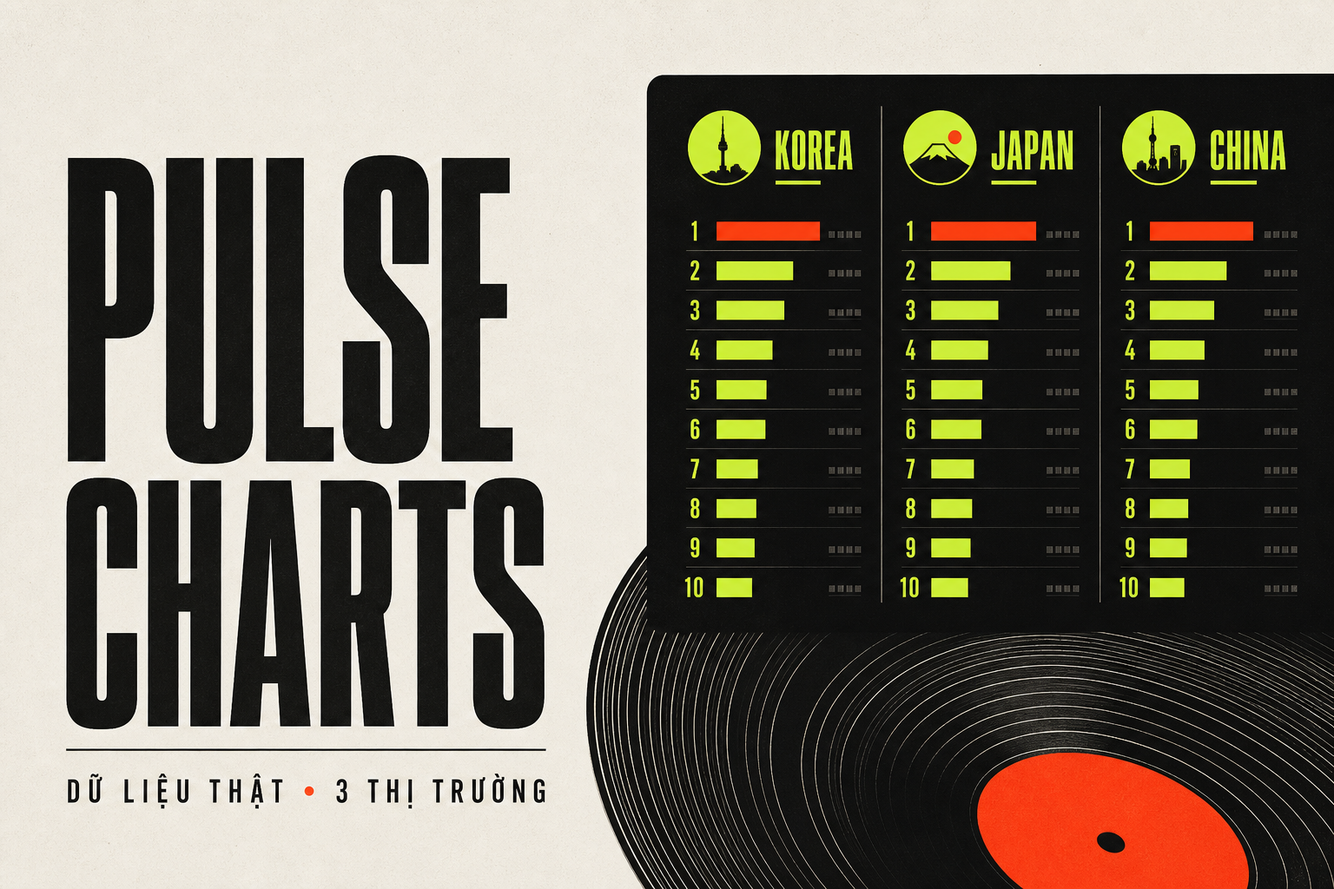
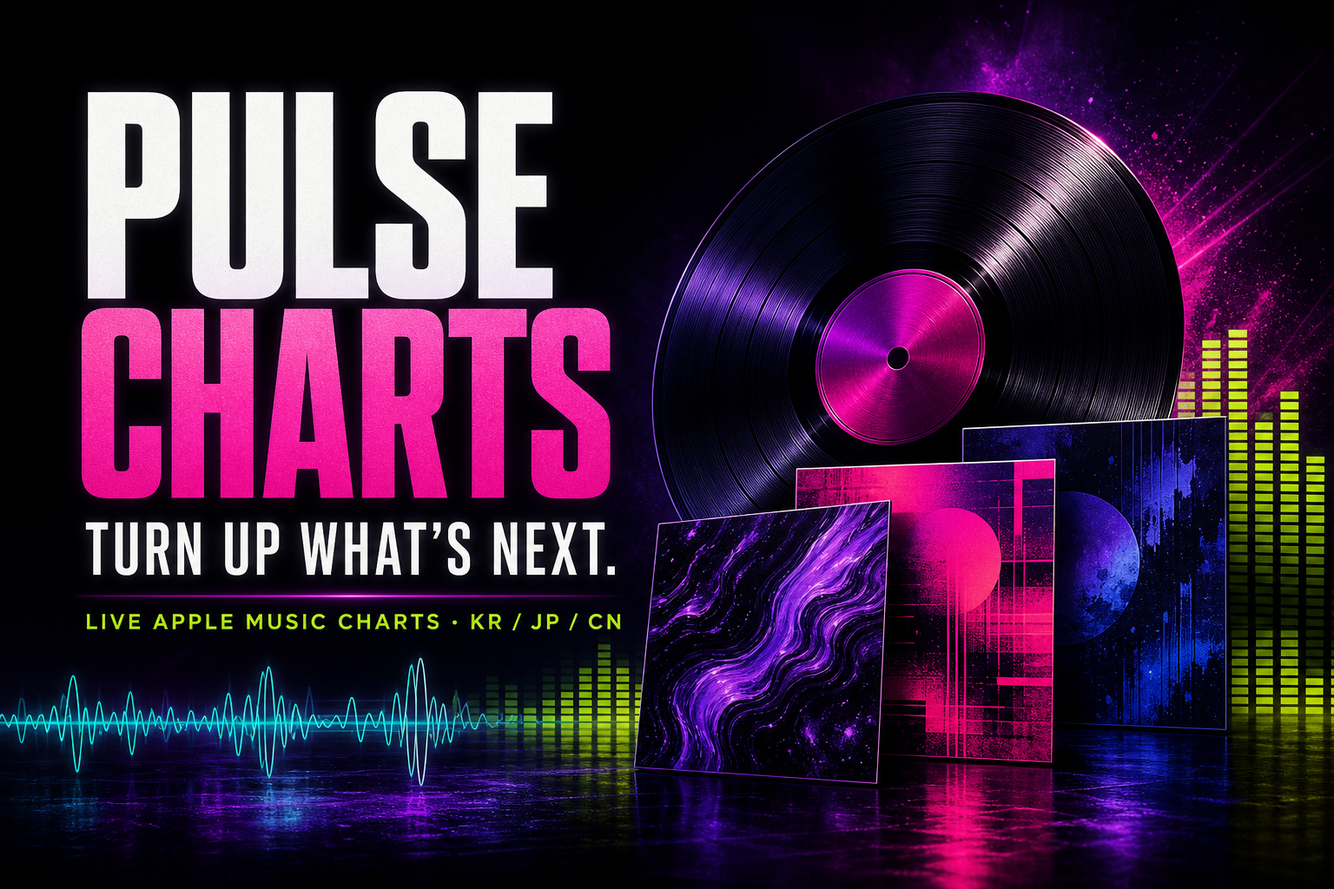
Redesign Pulse Charts with modern music interface

diff --git a/app/globals.css b/app/globals.css
@@ -1,8 +1,13 @@
 @import "tailwindcss";
-:root{--ink:#11110f;--paper:#f2f0e9;--acid:#c6ff33;--red:#ff4d2e;--line:#d2cfc5;--muted:#716f68}*{box-sizing:border-box}html{scroll-behavior:smooth}body{margin:0;background:var(--paper);color:var(--ink);font-family:Arial,Helvetica,sans-serif}button,input{font:inherit}button,a{-webkit-tap-highlight-color:transparent}button:focus-visible,a:focus-visible,input:focus-visible{outline:3px solid var(--red);outline-offset:2px}.topbar{min-height:76px;display:flex;align-items:center;justify-content:space-between;padding:0 4vw;border-bottom:1px solid var(--line)}.brand{color:var(--ink);display:flex;align-items:center;gap:12px;text-decoration:none;font-weight:900;font-size:18px;letter-spacing:-.7px}.brand>span:last-child span{color:var(--red)}.brand-mark{width:29px;height:29px;display:flex;align-items:flex-end;gap:3px;padding:5px;background:var(--ink);border-radius:50%}.brand-mark i{width:4px;display:block;background:var(--acid);border-radius:3px}.brand-mark i:nth-child(1){height:8px}.brand-mark i:nth-child(2){height:17px}.brand-mark i:nth-child(3){height:12px}.topbar-meta{font:700 10px/1 Arial,sans-serif;letter-spacing:1.2px}.live-dot{display:inline-block;width:7px;height:7px;background:#24b869;border-radius:50%;margin-right:7px;box-shadow:0 0 0 4px #24b86922}.hero{min-height:365px;padding:64px 4vw 56px;display:grid;grid-template-columns:1fr auto;align-items:end;border-bottom:1px solid var(--line);background:linear-gradient(120deg,transparent 65%,#e4e1d6)}.eyebrow,.section-label{margin:0 0 18px;font:800 10px/1 Arial,sans-serif;letter-spacing:2px;text-transform:uppercase}h1{max-width:900px;margin:0;font-size:clamp(42px,6vw,88px);line-height:.88;letter-spacing:-5px;font-weight:900}h1 em{font-family:Georgia,serif;font-weight:400;color:var(--red)}.hero-copy{max-width:610px;margin:30px 0 0;color:var(--muted);font-size:15px;line-height:1.6}.hero-stat{width:180px;padding:22px 0 4px;border-top:4px solid var(--ink)}.hero-stat strong{display:block;font-size:58px;letter-spacing:-5px;line-height:1}.hero-stat span{display:block;margin-top:10px;font-size:9px;line-height:1.5;letter-spacing:1.4px;font-weight:800}.controls{padding:20px 4vw;display:grid;grid-template-columns:minmax(280px,1fr) auto;gap:28px;border-bottom:1px solid var(--line)}.search-box{position:relative;display:flex;align-items:center;min-height:54px;border:1px solid var(--ink);background:#fff}.search-box>span{font-size:27px;margin:0 14px 4px 18px;transform:rotate(-20deg)}.search-box input{border:0;background:transparent;outline:0;width:100%;padding:0 12px 0 0;font-size:13px}.search-box button{width:46px;height:46px;border:0;background:transparent;cursor:pointer;font-size:24px}.filter-group{display:flex;border:1px solid var(--ink);background:#fff}.filter-group button{min-width:105px;border:0;border-right:1px solid var(--line);padding:7px 16px;background:transparent;cursor:pointer;font-size:11px;font-weight:700}.filter-group button:last-child{border-right:0}.filter-group button small{display:block;font-size:8px;letter-spacing:1px;color:var(--muted);margin-bottom:3px}.filter-group button.active{background:var(--ink);color:#fff}.filter-group button.active small{color:var(--acid)}
-.workspace{display:grid;grid-template-columns:230px minmax(500px,1fr) minmax(290px,380px);min-height:790px}.sidebar{padding:36px 24px 50px 4vw;border-right:1px solid var(--line)}.section-label{color:var(--muted);margin-bottom:14px}.chart-menu{display:grid;gap:8px}.chart-menu button{display:grid;grid-template-columns:48px 1fr;align-items:center;min-height:58px;border:1px solid transparent;text-align:left;background:transparent;padding:8px 10px;cursor:pointer}.chart-menu button span{color:var(--muted);font-size:8px;font-weight:900;letter-spacing:1px}.chart-menu button b{font-size:11px}.chart-menu button.active{border-color:var(--ink);background:var(--acid)}.chart-menu button.active span{color:var(--ink)}.source-note{margin-top:38px;padding-top:22px;border-top:1px solid var(--line);display:flex;gap:10px}.verified{flex:none;width:20px;height:20px;display:grid;place-items:center;border-radius:50%;background:#24b869;color:white;font-size:11px}.source-note p{margin:0;color:var(--muted);font-size:9px;line-height:1.5}.source-note b{display:block;color:var(--ink);font-size:10px;margin-bottom:4px}
-.chart-panel{border-right:1px solid var(--line)}.panel-heading{min-height:125px;display:flex;align-items:center;justify-content:space-between;padding:28px 32px;border-bottom:1px solid var(--line)}.panel-heading .eyebrow{color:var(--red);margin-bottom:9px}.panel-heading h2{margin:0;font-size:30px;letter-spacing:-1.5px}.updated{padding-left:22px;border-left:1px solid var(--line);font-size:8px;line-height:1.6;letter-spacing:1px;color:var(--muted)}.updated b{color:var(--ink);font-size:10px}.sync-warning{padding:10px 25px;background:#fff0c9;color:#6e5000;font-size:10px}.song-row{width:100%;min-height:75px;display:grid;grid-template-columns:43px 48px minmax(140px,1fr) 90px 76px 22px;gap:12px;align-items:center;border:0;border-bottom:1px solid var(--line);background:transparent;padding:0 22px;text-align:left;cursor:pointer;transition:background .16s,color .16s}.song-row:hover,.song-row.selected{background:var(--ink);color:#fff}.song-row.selected{box-shadow:inset 5px 0 var(--acid)}.rank{font:400 21px/1 Georgia,serif;color:var(--muted)}.song-row:hover .rank,.song-row.selected .rank{color:var(--acid)}.song-row>img{width:44px;height:44px;object-fit:cover;background:#ddd}.song-main{min-width:0}.song-main b,.song-main small{display:block;overflow:hidden;text-overflow:ellipsis;white-space:nowrap}.song-main b{font-size:13px}.song-main small{margin-top:5px;color:var(--muted);font-size:10px}.song-row:hover .song-main small,.song-row.selected .song-main small{color:#aaa}.genre{font-size:9px;color:var(--muted);overflow:hidden;text-overflow:ellipsis;white-space:nowrap}.released{font-size:9px;color:var(--muted)}.open-song{opacity:.35;font-size:16px}.song-row:hover .open-song,.song-row.selected .open-song{opacity:1;color:var(--acid)}.empty-state{padding:45px 30px;color:var(--muted);font:400 18px Georgia,serif;border-bottom:1px solid var(--line)}.empty-state.error{color:var(--red)}
-.detail-panel{position:relative;padding:38px 30px;background:#e8e5dc}.detail-empty{height:100%;display:flex;flex-direction:column;justify-content:center;align-items:center;text-align:center;max-width:250px;margin:auto}.disc{position:relative;width:70px;height:70px;border-radius:50%;display:grid;place-items:center;background:repeating-radial-gradient(circle,#111 0 4px,#2f2f2c 5px 6px);box-shadow:8px 8px 0 var(--acid);margin-bottom:32px}.disc i{width:20px;height:20px;background:var(--red);border:5px solid #fff;border-radius:50%}.detail-empty p{font-size:8px;letter-spacing:2px;font-weight:900}.detail-empty h3{font:400 24px/1.2 Georgia,serif;color:var(--muted)}.cover-wrap{position:relative;margin:-38px -30px 28px}.cover-wrap img{display:block;width:100%;aspect-ratio:1;object-fit:cover}.cover-wrap span{position:absolute;left:18px;bottom:18px;background:var(--acid);padding:8px 10px;font:700 16px Georgia,serif}.detail-panel>.eyebrow{color:var(--red);margin-bottom:10px}.detail-panel>h3{font-size:32px;line-height:1;letter-spacing:-1.5px;margin:0}.artist-link{display:inline-block;color:var(--muted);margin:10px 0 22px;font-size:13px;text-decoration:none}.artist-link:hover{color:var(--red)}dl{margin:0;border-top:1px solid var(--line)}dl div{display:flex;justify-content:space-between;gap:20px;padding:12px 0;border-bottom:1px solid var(--line)}dt{font-size:8px;font-weight:900;letter-spacing:1px}dd{margin:0;text-align:right;font-size:9px;color:var(--muted)}.apple-link,.youtube-link{margin-top:22px;min-height:48px;display:flex;justify-content:space-between;align-items:center;padding:0 15px;background:var(--red);color:#fff;text-decoration:none;font-size:9px;font-weight:900;letter-spacing:1px}.youtube-link.secondary{margin-top:8px;background:transparent;border:1px solid var(--ink);color:var(--ink)}footer{min-height:90px;display:flex;justify-content:space-between;align-items:center;padding:0 4vw;background:var(--ink);color:#fff;font-size:9px;letter-spacing:1px}footer span{color:var(--acid);font-weight:900}footer p{color:#999}footer a{color:#ddd;text-decoration:none}
-@media(max-width:1120px){.workspace{grid-template-columns:210px 1fr}.detail-panel{grid-column:1/-1;min-height:390px;border-top:1px solid var(--line)}.detail-panel.has-song{display:grid;grid-template-columns:280px 1fr;gap:0 28px}.detail-panel.has-song .cover-wrap{grid-row:1/8;margin:-38px 0 -38px -30px}.detail-panel.has-song .cover-wrap img{height:100%;aspect-ratio:auto}.detail-panel.has-song .apple-link,.detail-panel.has-song .youtube-link{grid-column:2}.detail-panel.has-song dl{grid-column:2}}
-@media(max-width:780px){.topbar{padding:0 20px}.topbar-meta{display:none}.hero{min-height:auto;display:block;padding:52px 20px 42px}.hero-stat{display:none}h1{font-size:48px;letter-spacing:-3px}.controls{display:block;padding:16px 20px}.filter-group{overflow-x:auto;margin-top:12px}.filter-group button{min-width:95px}.workspace{display:block}.sidebar{padding:28px 20px;border-right:0;border-bottom:1px solid var(--line)}.chart-menu{display:flex;overflow-x:auto}.chart-menu button{min-width:180px}.source-note{display:none}.panel-heading{padding:25px 20px}.updated{display:none}.song-row{grid-template-columns:35px 42px 1fr 22px;padding:0 14px;gap:9px}.song-row>img{width:38px;height:38px}.genre,.released{display:none}.detail-panel.has-song{display:block}.detail-panel.has-song .cover-wrap{margin:-38px -30px 28px}.detail-panel.has-song .cover-wrap img{height:auto;aspect-ratio:1}.detail-panel.has-song .apple-link,.detail-panel.has-song .youtube-link,.detail-panel.has-song dl{grid-column:auto}footer{padding:24px 20px;align-items:flex-start;gap:10px;flex-direction:column}}
-@media(prefers-reduced-motion:reduce){*{scroll-behavior:auto!important;transition:none!important}}
+@import url("https://fonts.googleapis.com/css2?family=DM+Sans:wght@400;500;600;700&family=Space+Grotesk:wght@400;500;600;700&display=swap");
+:root{--bg:#08080b;--panel:#111116;--panel2:#17171e;--text:#f5f3ff;--muted:#9895a8;--line:#292733;--purple:#8b5cf6;--pink:#ff4db8;--lime:#c8ff3d;--cyan:#50e3ff}*{box-sizing:border-box}html{scroll-behavior:smooth}body{margin:0;background:var(--bg);color:var(--text);font-family:"DM Sans",Arial,sans-serif}body:before{content:"";position:fixed;inset:0;pointer-events:none;opacity:.14;background-image:linear-gradient(#ffffff08 1px,transparent 1px),linear-gradient(90deg,#ffffff08 1px,transparent 1px);background-size:56px 56px}button,input{font:inherit}button,a{-webkit-tap-highlight-color:transparent}button:focus-visible,a:focus-visible,input:focus-visible{outline:2px solid var(--lime);outline-offset:3px}a{color:inherit}.topbar{position:relative;z-index:10;height:78px;display:grid;grid-template-columns:1fr auto 1fr;align-items:center;padding:0 clamp(22px,4vw,72px);border-bottom:1px solid var(--line);background:#08080bd9;backdrop-filter:blur(18px)}.brand{display:flex;align-items:center;gap:11px;text-decoration:none;font:600 17px/1 "Space Grotesk",sans-serif;letter-spacing:-.7px}.brand b{color:var(--lime)}.brand-mark{width:34px;height:34px;display:flex;align-items:center;justify-content:center;gap:2px;border:1px solid #ffffff2b;border-radius:50%;background:linear-gradient(135deg,var(--purple),var(--pink));box-shadow:0 0 24px #8b5cf650}.brand-mark i{width:2px;border-radius:3px;background:white;animation:equalize .9s ease-in-out infinite alternate}.brand-mark i:nth-child(1){height:8px}.brand-mark i:nth-child(2){height:17px;animation-delay:-.2s}.brand-mark i:nth-child(3){height:12px;animation-delay:-.4s}.brand-mark i:nth-child(4){height:6px;animation-delay:-.6s}@keyframes equalize{to{transform:scaleY(.45)}}nav{display:flex;gap:36px}nav a{text-decoration:none;color:var(--muted);font-size:11px;font-weight:700;letter-spacing:1.5px;text-transform:uppercase}nav a:hover{color:var(--text)}.live-pill{justify-self:end;font-size:9px;font-weight:700;letter-spacing:1.2px;color:#cac7d7}.live-pill span,.status-dot{display:inline-block;width:7px;height:7px;margin-right:7px;border-radius:50%;background:var(--lime);box-shadow:0 0 12px var(--lime)}
+.hero{position:relative;min-height:620px;padding:86px clamp(22px,6vw,110px) 72px;display:grid;grid-template-columns:minmax(400px,.9fr) minmax(420px,1.1fr);align-items:center;overflow:hidden;border-bottom:1px solid var(--line);background:radial-gradient(circle at 80% 40%,#7226e433,transparent 35%),radial-gradient(circle at 45% 110%,#ff4db815,transparent 38%)}.hero:after{content:"";position:absolute;right:-8%;top:12%;width:42vw;height:42vw;border:1px solid #ffffff12;border-radius:50%;box-shadow:0 0 0 5vw #ffffff04,0 0 0 10vw #ffffff03}.kicker{margin:0 0 22px;color:#c4c0d2;font:700 10px/1 "Space Grotesk",sans-serif;letter-spacing:2.3px}.kicker span{display:inline-grid;place-items:center;width:28px;height:28px;margin-right:10px;border:1px solid #575269;border-radius:50%;color:var(--lime)}h1{position:relative;z-index:2;margin:0;font:600 clamp(64px,7.3vw,118px)/.82 "Space Grotesk",sans-serif;letter-spacing:-7px}h1 em{font-style:normal;color:transparent;-webkit-text-stroke:1.5px #ffffff;background:linear-gradient(90deg,var(--pink),var(--purple),var(--cyan));background-clip:text;-webkit-background-clip:text;-webkit-text-stroke:0}.hero-copy>p:not(.kicker){max-width:520px;margin:34px 0 0;color:var(--muted);font-size:15px;line-height:1.7}.hero-cta{width:max-content;margin-top:36px;display:flex;align-items:center;gap:13px;text-decoration:none;font:700 10px/1 "Space Grotesk",sans-serif;letter-spacing:1.5px}.hero-cta span{width:45px;height:45px;display:grid;place-items:center;padding-left:3px;border-radius:50%;background:var(--lime);color:#09090b;box-shadow:0 0 28px #c8ff3d30;transition:transform .2s}.hero-cta:hover span{transform:scale(1.08)}.hero-art{position:relative;z-index:2;height:440px}.orb{position:absolute;width:340px;height:340px;right:7%;top:8%;border-radius:50%;background:radial-gradient(circle at 32% 28%,#d0b7ff,#7741d6 28%,#201343 68%,#0b0911);box-shadow:0 40px 120px #7c3aed66}.vinyl{position:absolute;right:0;top:34px;width:350px;height:350px;border-radius:50%;display:grid;place-items:center;background:repeating-radial-gradient(circle,#07070a 0 4px,#202027 5px 6px);box-shadow:0 30px 80px #000}.vinyl:after{content:"";position:absolute;inset:18px;border:1px solid #ffffff14;border-radius:50%}.vinyl i{width:108px;height:108px;border-radius:50%;background:linear-gradient(135deg,var(--pink),var(--purple));border:5px solid #08080b}.vinyl b{position:absolute;text-align:center;font:600 11px/1.1 "Space Grotesk";letter-spacing:1px}.cover-stack{position:absolute;left:6%;top:40px;width:300px;height:350px}.cover-stack img,.cover-placeholder{--i:0;position:absolute;width:220px;height:220px;object-fit:cover;left:calc(var(--i) * 38px);top:calc(var(--i) * 48px);border:8px solid #111116;box-shadow:0 24px 70px #000b;transform:rotate(calc((var(--i) - 1) * 5deg));transition:transform .3s}.cover-stack img:hover{transform:translateY(-10px) rotate(0);z-index:4}.cover-placeholder{display:grid;place-items:center;text-align:center;background:linear-gradient(135deg,var(--purple),var(--pink));font:700 28px/1 "Space Grotesk"}.waveform{position:absolute;display:flex;align-items:center;gap:5px;right:4%;bottom:8px;height:54px}.waveform i{display:block;width:3px;border-radius:3px;background:linear-gradient(var(--cyan),var(--purple));height:calc(10px + (var(--n,1) * 2px));animation:wave .8s ease-in-out infinite alternate}.waveform i:nth-child(3n){height:42px}.waveform i:nth-child(2n){height:24px;animation-delay:-.4s}.waveform i:nth-child(5n){height:52px;animation-delay:-.6s}@keyframes wave{to{transform:scaleY(.45)}}.hero-index{position:absolute;right:4vw;bottom:24px;font:600 9px/1 "Space Grotesk";letter-spacing:2px;color:#716d7e}
+.chart-bar{position:relative;z-index:3;display:grid;grid-template-columns:1fr minmax(300px,480px);align-items:stretch;border-bottom:1px solid var(--line);background:#0c0c10}.market-filters{display:flex;overflow-x:auto}.market-filters button{min-width:140px;min-height:76px;padding:0 24px;border:0;border-right:1px solid var(--line);background:transparent;color:var(--muted);text-align:left;cursor:pointer;font-size:12px;font-weight:600}.market-filters button small{display:block;margin-bottom:6px;color:#5f5b6b;font:700 8px/1 "Space Grotesk";letter-spacing:1.5px}.market-filters button:hover{color:white;background:#ffffff05}.market-filters button.active{color:#09090b;background:var(--lime)}.market-filters button.active small{color:#485d00}.search-box{margin:13px clamp(20px,4vw,70px) 13px 20px;min-height:50px;display:flex;align-items:center;border:1px solid #34313e;border-radius:999px;background:#15151b}.search-box>span{margin:0 14px 3px 20px;font-size:25px;transform:rotate(-15deg);color:var(--purple)}.search-box input{min-width:0;width:100%;border:0;outline:0;background:transparent;color:white;font-size:12px}.search-box input::placeholder{color:#696574}.search-box button{width:45px;border:0;background:transparent;color:white;font-size:21px;cursor:pointer}
+.chart-tabs{padding:28px clamp(22px,4vw,72px) 0}.chart-tabs>p{margin:0 0 13px;color:#686473;font:700 8px/1 "Space Grotesk";letter-spacing:2px}.chart-tabs>div{display:flex;gap:8px;overflow-x:auto}.chart-tabs button{min-width:200px;padding:14px 18px;border:1px solid var(--line);border-radius:12px;background:var(--panel);color:#aaa6b6;text-align:left;font-size:11px;font-weight:600;cursor:pointer;transition:.2s}.chart-tabs button span{display:block;margin-bottom:5px;color:#635e70;font-size:8px;letter-spacing:1.5px}.chart-tabs button:hover{border-color:#615a70;color:white}.chart-tabs button.active{color:white;border-color:var(--purple);background:linear-gradient(110deg,#8b5cf623,#ff4db80c);box-shadow:inset 0 0 0 1px #8b5cf620}.chart-tabs button.active span{color:var(--lime)}
+.workspace{display:grid;grid-template-columns:minmax(560px,1fr) minmax(320px,430px);gap:0;margin:24px clamp(22px,4vw,72px) 70px;border:1px solid var(--line);border-radius:20px;overflow:visible;background:var(--panel);box-shadow:0 30px 100px #0006}.chart-panel{min-width:0;border-right:1px solid var(--line)}.panel-heading{min-height:120px;display:flex;align-items:center;justify-content:space-between;padding:28px 32px;border-bottom:1px solid var(--line)}.panel-heading .kicker{margin-bottom:9px}.panel-heading h2{margin:0;font:600 clamp(25px,3vw,38px)/1 "Space Grotesk";letter-spacing:-1.8px}.sync-time{padding-left:25px;border-left:1px solid var(--line);color:#666270;font-size:8px;line-height:1.6;letter-spacing:1px}.sync-time b{color:#aaa5b5;font-size:9px}.column-head,.song-row{display:grid;grid-template-columns:55px minmax(220px,1fr) 100px 90px 30px;gap:12px;align-items:center}.column-head{min-height:42px;padding:0 25px;border-bottom:1px solid var(--line);color:#5f5b69;font-size:8px;font-weight:700;letter-spacing:1.5px}.song-row{width:100%;min-height:82px;padding:0 25px;border:0;border-bottom:1px solid var(--line);background:transparent;color:white;text-align:left;cursor:pointer;transition:background .18s}.song-row:hover{background:#ffffff05}.song-row.selected{background:linear-gradient(90deg,#8b5cf61f,transparent)}.song-row.selected:before{content:"";position:absolute;left:0;width:3px;height:48px;background:var(--lime);box-shadow:0 0 14px var(--lime)}.song-row{position:relative}.rank{font:500 20px/1 "Space Grotesk";color:#5d5967}.selected .rank{color:var(--lime)}.track{min-width:0;display:flex;align-items:center;gap:14px}.art{position:relative;flex:none;width:48px;height:48px}.art img{width:100%;height:100%;object-fit:cover;border-radius:8px}.art i{position:absolute;inset:0;display:grid;place-items:center;border-radius:8px;background:#09090ba8;font-style:normal;font-size:11px;opacity:0}.song-row:hover .art i,.song-row.selected .art i{opacity:1}.song-main{min-width:0}.song-main b,.song-main small{display:block;overflow:hidden;text-overflow:ellipsis;white-space:nowrap}.song-main b{font-size:13px}.song-main small{margin-top:5px;color:#777382;font-size:10px}.genre,.released{overflow:hidden;text-overflow:ellipsis;white-space:nowrap;color:#716d7b;font-size:9px}.row-action{color:#5f5b68;letter-spacing:2px}.empty-state,.sync-warning{padding:38px 30px;color:var(--muted);font:500 15px "Space Grotesk";border-bottom:1px solid var(--line)}.empty-state.error{color:#ff7fbb}.sync-warning{background:#f3ba3820;color:#e5bc62;font-size:11px}
+.player-panel{position:relative;min-height:710px;padding:25px 28px 30px;overflow:hidden;background:linear-gradient(180deg,#1b1725,#111116 46%)}.player-glow{position:absolute;inset:-80px -80px auto;height:400px;background-size:cover;background-position:center;filter:blur(70px) saturate(1.4);opacity:.26}.player-head{position:relative;display:flex;justify-content:space-between;color:#a7a2b2;font:700 8px/1 "Space Grotesk";letter-spacing:1.8px}.player-head span:last-child{color:var(--lime)}.player-cover{position:relative;width:min(100%,340px);margin:30px auto 26px}.player-cover>img{display:block;width:100%;aspect-ratio:1;object-fit:cover;border-radius:16px;box-shadow:0 28px 70px #000b}.playing-badge{position:absolute;right:14px;bottom:14px;width:42px;height:42px;display:flex;align-items:center;justify-content:center;gap:2px;border-radius:50%;background:var(--lime);box-shadow:0 0 24px #c8ff3d55}.playing-badge i{width:2px;background:#09090b;border-radius:2px;animation:equalize .7s ease infinite alternate}.playing-badge i:nth-child(1){height:8px}.playing-badge i:nth-child(2){height:18px;animation-delay:-.2s}.playing-badge i:nth-child(3){height:13px;animation-delay:-.4s}.playing-badge i:nth-child(4){height:6px;animation-delay:-.6s}.player-info{text-align:center}.player-info p{margin:0 0 9px;color:var(--pink);font:700 8px/1 "Space Grotesk";letter-spacing:1.5px;text-transform:uppercase}.player-info h3{margin:0;font:600 clamp(25px,2.8vw,36px)/1 "Space Grotesk";letter-spacing:-1.6px}.player-info>a{display:inline-block;margin-top:9px;color:#8e8999;text-decoration:none;font-size:12px}.player-info>a:hover{color:var(--lime)}.progress{position:relative;margin:24px 0 14px;padding-top:13px;display:flex;justify-content:space-between;color:#5e5a68;font-size:7px;letter-spacing:1px}.progress:before{content:"";position:absolute;left:0;right:0;top:0;height:2px;background:#373340}.progress span{position:absolute;left:0;top:0;width:42%;height:2px;background:linear-gradient(90deg,var(--purple),var(--pink))}.progress span:after{content:"";position:absolute;right:-3px;top:-2px;width:6px;height:6px;border-radius:50%;background:white}.progress i{font-style:normal}.progress b{font-weight:600}.player-actions{display:grid;grid-template-columns:1fr auto;gap:8px}.player-actions a{min-height:47px;padding:0 17px;display:flex;align-items:center;justify-content:center;border:1px solid #35313f;border-radius:999px;text-decoration:none;color:#a9a4b4;font-size:8px;font-weight:700;letter-spacing:1px}.player-actions .primary{gap:10px;border:0;background:linear-gradient(100deg,var(--purple),var(--pink));color:white}.player-actions .primary:hover{filter:brightness(1.12)}.player-panel dl{margin:20px 0 0;border-top:1px solid var(--line)}.player-panel dl div{display:flex;justify-content:space-between;padding:10px 0;border-bottom:1px solid var(--line)}dt{color:#5c5865;font-size:7px;font-weight:700;letter-spacing:1.2px}dd{margin:0;color:#8d8996;font-size:8px}.player-empty{height:100%;display:grid;place-items:center}.player-empty p{color:#66616f;font-size:9px;letter-spacing:2px}.vinyl.mini{position:relative;right:auto;top:auto;width:150px;height:150px}.vinyl.mini i{width:44px;height:44px}
+footer{min-height:190px;padding:45px clamp(22px,4vw,72px);display:grid;grid-template-columns:1fr 1fr 1fr;align-items:center;border-top:1px solid var(--line);background:#060608}.footer-brand{font-size:20px}.footer-brand .brand-mark{width:39px;height:39px}footer>p{margin:0;color:#7c7886;font:500 14px/1.6 "Space Grotesk"}footer>div:last-child{justify-self:end;display:flex;flex-direction:column;gap:9px;text-align:right;color:#5d5965;font-size:8px;letter-spacing:1.2px}footer>div:last-child a{text-decoration:none;color:#96919f}
+@media(max-width:1080px){.hero{grid-template-columns:1fr 1fr;padding-left:45px;padding-right:45px}.cover-stack{left:-5%}.workspace{grid-template-columns:minmax(500px,1fr) 350px;margin-left:24px;margin-right:24px}.chart-bar{grid-template-columns:1fr}.search-box{margin:12px 24px}.genre{display:none}.column-head,.song-row{grid-template-columns:50px minmax(220px,1fr) 88px 28px}.column-head span:nth-child(3){display:none}}
+@media(max-width:820px){.topbar{grid-template-columns:1fr auto;padding:0 20px}nav{display:none}.live-pill{font-size:8px}.hero{min-height:auto;display:block;padding:64px 22px 48px}.hero-copy{position:relative;z-index:3}.hero-copy>p:not(.kicker){max-width:430px}.hero-art{height:330px;margin-top:35px}.orb{width:260px;height:260px}.vinyl{width:270px;height:270px}.vinyl i{width:80px;height:80px}.cover-stack{left:0;width:250px;height:290px}.cover-stack img,.cover-placeholder{width:165px;height:165px}.hero-index{display:none}.workspace{display:block;margin:18px 14px 50px}.chart-panel{border-right:0}.player-panel{min-height:auto;border-top:1px solid var(--line)}.player-cover{max-width:360px}.chart-tabs{padding-left:18px;padding-right:18px}footer{grid-template-columns:1fr 1fr;gap:30px}footer>p{display:none}}
+@media(max-width:560px){h1{font-size:58px;letter-spacing:-4px}.topbar{height:68px}.live-pill{width:9px;overflow:hidden;color:transparent}.live-pill span{margin:0}.hero{padding-top:52px}.hero-art{height:280px}.vinyl{width:230px;height:230px;right:-30px}.orb{width:220px;height:220px;right:-10px}.cover-stack img,.cover-placeholder{width:142px;height:142px;border-width:5px}.cover-stack img{left:calc(var(--i) * 28px);top:calc(var(--i) * 38px)}.waveform{display:none}.market-filters button{min-width:115px;padding:0 17px}.chart-tabs button{min-width:175px}.panel-heading{padding:24px 18px}.sync-time{display:none}.column-head{display:none}.song-row{grid-template-columns:35px minmax(190px,1fr) 25px;min-height:74px;padding:0 14px;gap:8px}.track{gap:10px}.art{width:43px;height:43px}.genre,.released{display:none}.player-panel{padding:24px 18px}.player-cover{margin-top:24px}.player-actions{grid-template-columns:1fr}.player-actions a{min-height:43px}.chart-bar{display:block}.search-box{margin:12px 14px}.market-filters{border-bottom:1px solid var(--line)}footer{display:block;padding:38px 22px}footer>div:last-child{margin-top:25px;text-align:left;align-items:flex-start}}
+@media(prefers-reduced-motion:reduce){*{scroll-behavior:auto!important;animation:none!important;transition:none!important}}

diff --git a/app/page.tsx b/app/page.tsx
@@ -8,7 +8,7 @@ type Chart={ id:string; label:string; shortLabel:string; market:Market; source:s
 type ChartData={ generatedAt:string; charts:Chart[] };
 
 const marketLabels:{ id:Market|"ALL"; label:string; code:string }[]=[
-  { id:"ALL",label:"All",code:"ALL" },{ id:"KR",label:"South Korea",code:"KR" },
+  { id:"ALL",label:"All markets",code:"ALL" },{ id:"KR",label:"South Korea",code:"KR" },
   { id:"JP",label:"Japan",code:"JP" },{ id:"CN",label:"China",code:"CN" },
 ];
 
@@ -27,27 +27,83 @@ export default function Home(){
   const [selected,setSelected]=useState<Song|null>(null);
 
   useEffect(()=>{ fetch(`charts.json?v=${Date.now()}`).then((response)=>{ if(!response.ok) throw new Error(); return response.json(); })
-    .then((next:ChartData)=>{ setData(next); setActiveId(next.charts[0]?.id??""); setStatus("ready"); })
+    .then((next:ChartData)=>{ setData(next); setActiveId(next.charts[0]?.id??""); setSelected(next.charts[0]?.songs[0]??null); setStatus("ready"); })
     .catch(()=>setStatus("error")); },[]);
   const charts=useMemo(()=>data?.charts.filter((chart)=>market==="ALL"||chart.market===market)??[],[data,market]);
-  useEffect(()=>{ if(!charts.some((chart)=>chart.id===activeId)){ setActiveId(charts[0]?.id??""); setSelected(null); } },[charts,activeId]);
+  useEffect(()=>{ if(!charts.some((chart)=>chart.id===activeId)){ const next=charts[0];setActiveId(next?.id??"");setSelected(next?.songs[0]??null); } },[charts,activeId]);
   const active=data?.charts.find((chart)=>chart.id===activeId)??charts[0];
   const songs=useMemo(()=>{ const needle=query.trim().toLocaleLowerCase("en"); if(!active) return []; if(!needle) return active.songs; return active.songs.filter((song)=>`${song.title} ${song.artist} ${song.genre}`.toLocaleLowerCase("en").includes(needle)); },[active,query]);
-  const chooseChart=(id:string)=>{ setActiveId(id); setSelected(null); };
-  const youtubeUrl=selected?`https://www.youtube.com/results?search_query=${encodeURIComponent(`${selected.title} ${selected.artist}`)}`:"#";
+  const chooseChart=(chart:Chart)=>{ setActiveId(chart.id); setSelected(chart.songs[0]??null); };
+  const displaySong=selected??active?.songs[0]??null;
+  const youtubeUrl=displaySong?`https://www.youtube.com/results?search_query=${encodeURIComponent(`${displaySong.title} ${displaySong.artist}`)}`:"#";
+  const heroCovers=active?.songs.slice(0,3)??[];
 
   return <main>
-    <header className="topbar"><a className="brand" href="#top" aria-label="Pulse Charts — back to top"><span className="brand-mark"><i/><i/><i/></span><span>PULSE<span>CHARTS</span></span></a><div className="topbar-meta"><span className="live-dot"/> LIVE DATA · SYNCED FROM APPLE MUSIC</div></header>
-    <section className="hero" id="top"><div><p className="eyebrow">ASIAN MUSIC CHARTS</p><h1>See what Asia is<br/><em>listening to.</em></h1><p className="hero-copy">Track the Apple Music Top 10 in South Korea, Japan and China — synced from public sources, with no sign-in required.</p></div><div className="hero-stat"><strong>03</strong><span>MARKETS<br/>LIVE DATA</span></div></section>
-    <section className="controls" aria-label="Search and filters"><label className="search-box"><span>⌕</span><input value={query} onChange={(event)=>setQuery(event.target.value)} placeholder="Search songs, artists or genres..."/>{query&&<button onClick={()=>setQuery("")} aria-label="Clear search">×</button>}</label><div className="filter-group" aria-label="Filter by market">{marketLabels.map((item)=><button key={item.id} className={market===item.id?"active":""} onClick={()=>setMarket(item.id)}><small>{item.code}</small>{item.label}</button>)}</div></section>
-    <section className="workspace">
-      <aside className="sidebar"><p className="section-label">CHARTS</p><div className="chart-menu">{charts.map((chart)=><button key={chart.id} className={active?.id===chart.id?"active":""} onClick={()=>chooseChart(chart.id)}><span>{chart.shortLabel}</span><b>{chart.label}</b></button>)}</div><div className="source-note"><span className="verified">✓</span><p><b>Verified source</b>Data comes from public RSS feeds published by Apple.</p></div></aside>
-      <div className="chart-panel"><div className="panel-heading"><div><p className="eyebrow">{active?.shortLabel??"—"} · MOST PLAYED</p><h2>{active?.label??"Loading data"}</h2></div>{data&&<div className="updated">SYNCED<br/><b>{formatDate(data.generatedAt,true)}</b></div>}</div>
-        {active?.syncWarning&&<div className="sync-warning">{active.syncWarning}</div>}{status==="loading"&&<div className="empty-state">Loading the latest charts…</div>}{status==="error"&&<div className="empty-state error">We could not load the data. Please try again later.</div>}{status==="ready"&&songs.length===0&&<div className="empty-state">No matching results found.</div>}
-        <div className="song-list" aria-live="polite">{songs.map((song)=><button key={song.id} className={`song-row ${selected?.id===song.id?"selected":""}`} onClick={()=>setSelected(song)}><span className="rank">{String(song.rank).padStart(2,"0")}</span><img src={song.artworkUrl} alt="" loading="lazy"/><span className="song-main"><b>{song.title}</b><small>{song.artist}</small></span><span className="genre">{song.genre}</span><span className="released">{formatDate(song.releaseDate)}</span><span className="open-song">↗</span></button>)}</div>
+    <header className="topbar">
+      <a className="brand" href="#top" aria-label="Pulse Charts — back to top"><span className="brand-mark"><i/><i/><i/><i/></span><span>PULSE<b>CHARTS</b></span></a>
+      <nav><a href="#charts">Charts</a><a href="#about">About</a></nav>
+      <div className="live-pill"><span/> LIVE · APPLE MUSIC DATA</div>
+    </header>
+
+    <section className="hero" id="top">
+      <div className="hero-copy">
+        <p className="kicker"><span>01</span> THE SOUND OF RIGHT NOW</p>
+        <h1>Turn up<br/><em>what’s next.</em></h1>
+        <p>One place for the tracks moving South Korea, Japan and China. Real Apple Music charts, refreshed without the noise.</p>
+        <a href="#charts" className="hero-cta"><span>▶</span> EXPLORE THE CHARTS</a>
       </div>
-      <aside className={`detail-panel ${selected?"has-song":""}`}>{!selected?<div className="detail-empty"><span className="disc"><i/></span><p>SELECT A SONG</p><h3>Artwork and listening links will appear here.</h3></div>:<><div className="cover-wrap"><img src={selected.artworkUrl} alt={`${selected.title} artwork`}/><span>#{selected.rank}</span></div><p className="eyebrow">{selected.genre}</p><h3>{selected.title}</h3><a className="artist-link" href={selected.artistUrl} target="_blank" rel="noreferrer">{selected.artist} ↗</a><dl><div><dt>RELEASED</dt><dd>{formatDate(selected.releaseDate)}</dd></div><div><dt>MARKET</dt><dd>{active?.label}</dd></div></dl><a className="apple-link" href={selected.url} target="_blank" rel="noreferrer">LISTEN ON APPLE MUSIC <span>↗</span></a><a className="youtube-link secondary" href={youtubeUrl} target="_blank" rel="noreferrer">SEARCH ON YOUTUBE <span>↗</span></a></>}</aside>
+      <div className="hero-art" aria-hidden="true">
+        <div className="orb"/>
+        <div className="vinyl"><i/><b>PULSE<br/>CHARTS</b></div>
+        <div className="cover-stack">
+          {heroCovers.map((song,index)=><img key={song.id} src={song.artworkUrl} alt="" style={{"--i":index} as React.CSSProperties}/>)}
+          {!heroCovers.length&&<div className="cover-placeholder">LIVE<br/>TOP 10</div>}
+        </div>
+        <div className="waveform">{Array.from({length:18},(_,index)=><i key={index}/>)}</div>
+      </div>
+      <div className="hero-index">ASIA / 2026</div>
     </section>
-    <footer><span>PULSECHARTS / LIVE V1</span><p>{active?<><a href={active.sourceUrl} target="_blank" rel="noreferrer">Source: {active.source} ↗</a> · Updated {formatDate(active.updatedAt,true)}</>:"Connecting to the data source"}</p></footer>
+
+    <section className="chart-bar" id="charts">
+      <div className="market-filters" aria-label="Filter by market">{marketLabels.map((item)=><button key={item.id} className={market===item.id?"active":""} onClick={()=>setMarket(item.id)}><small>{item.code}</small>{item.label}</button>)}</div>
+      <label className="search-box"><span>⌕</span><input value={query} onChange={(event)=>setQuery(event.target.value)} placeholder="Search tracks, artists, genres"/>{query&&<button onClick={()=>setQuery("")} aria-label="Clear search">×</button>}</label>
+    </section>
+
+    <section className="chart-tabs" aria-label="Choose a chart">
+      <p>SELECT CHART</p>
+      <div>{charts.map((chart)=><button key={chart.id} className={active?.id===chart.id?"active":""} onClick={()=>chooseChart(chart)}><span>{chart.shortLabel}</span>{chart.label}</button>)}</div>
+    </section>
+
+    <section className="workspace">
+      <div className="chart-panel">
+        <div className="panel-heading">
+          <div><p className="kicker"><span>02</span> MOST PLAYED</p><h2>{active?.label??"Loading chart"}</h2></div>
+          {data&&<div className="sync-time"><span className="status-dot"/>UPDATED<br/><b>{formatDate(data.generatedAt,true)}</b></div>}
+        </div>
+        <div className="column-head"><span>#</span><span>TRACK</span><span>GENRE</span><span>RELEASED</span><span/></div>
+        {active?.syncWarning&&<div className="sync-warning">{active.syncWarning}</div>}
+        {status==="loading"&&<div className="empty-state">Tuning into the latest charts…</div>}
+        {status==="error"&&<div className="empty-state error">We could not load the data. Please try again later.</div>}
+        {status==="ready"&&songs.length===0&&<div className="empty-state">No matching tracks found.</div>}
+        <div className="song-list" aria-live="polite">{songs.map((song)=><button key={song.id} className={`song-row ${displaySong?.id===song.id?"selected":""}`} onClick={()=>setSelected(song)}>
+          <span className="rank">{String(song.rank).padStart(2,"0")}</span>
+          <span className="track"><span className="art"><img src={song.artworkUrl} alt="" loading="lazy"/><i>▶</i></span><span className="song-main"><b>{song.title}</b><small>{song.artist}</small></span></span>
+          <span className="genre">{song.genre}</span><span className="released">{formatDate(song.releaseDate)}</span><span className="row-action">•••</span>
+        </button>)}</div>
+      </div>
+
+      <aside className={`player-panel ${displaySong?"has-song":""}`}>
+        {displaySong?<><div className="player-glow" style={{backgroundImage:`url("${displaySong.artworkUrl}")`}}/>
+          <div className="player-head"><span>NOW CHARTING</span><span>#{displaySong.rank}</span></div>
+          <div className="player-cover"><img src={displaySong.artworkUrl} alt={`${displaySong.title} artwork`}/><span className="playing-badge"><i/><i/><i/><i/></span></div>
+          <div className="player-info"><p>{displaySong.genre}</p><h3>{displaySong.title}</h3><a href={displaySong.artistUrl} target="_blank" rel="noreferrer">{displaySong.artist} ↗</a></div>
+          <div className="progress"><span/><i>PREVIEW</i><b>TOP {displaySong.rank}</b></div>
+          <div className="player-actions"><a className="primary" href={displaySong.url} target="_blank" rel="noreferrer"><span>▶</span> PLAY ON APPLE MUSIC</a><a href={youtubeUrl} target="_blank" rel="noreferrer">YOUTUBE ↗</a></div>
+          <dl><div><dt>MARKET</dt><dd>{active?.label}</dd></div><div><dt>RELEASED</dt><dd>{formatDate(displaySong.releaseDate)}</dd></div></dl>
+        </>:<div className="player-empty"><div className="vinyl mini"><i/></div><p>SELECT A TRACK</p></div>}
+      </aside>
+    </section>
+
+    <footer id="about"><div className="brand footer-brand"><span className="brand-mark"><i/><i/><i/><i/></span><span>PULSE<b>CHARTS</b></span></div><p>Real charts. Zero noise.<br/>Built for music discovery across Asia.</p><div>{active?<><a href={active.sourceUrl} target="_blank" rel="noreferrer">SOURCE: {active.source} ↗</a><span>UPDATED {formatDate(active.updatedAt,true)}</span></>:"CONNECTING TO DATA"}</div></footer>
   </main>;
 }
